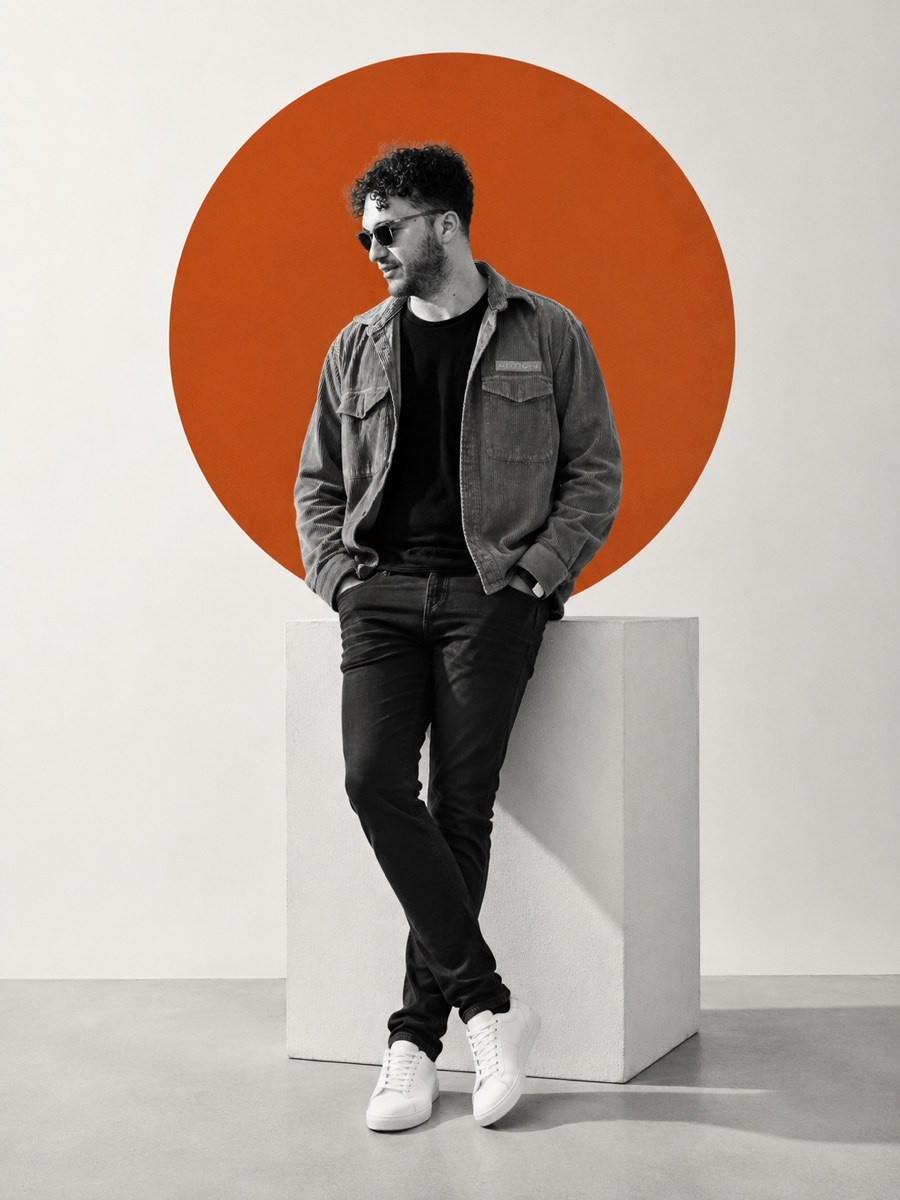
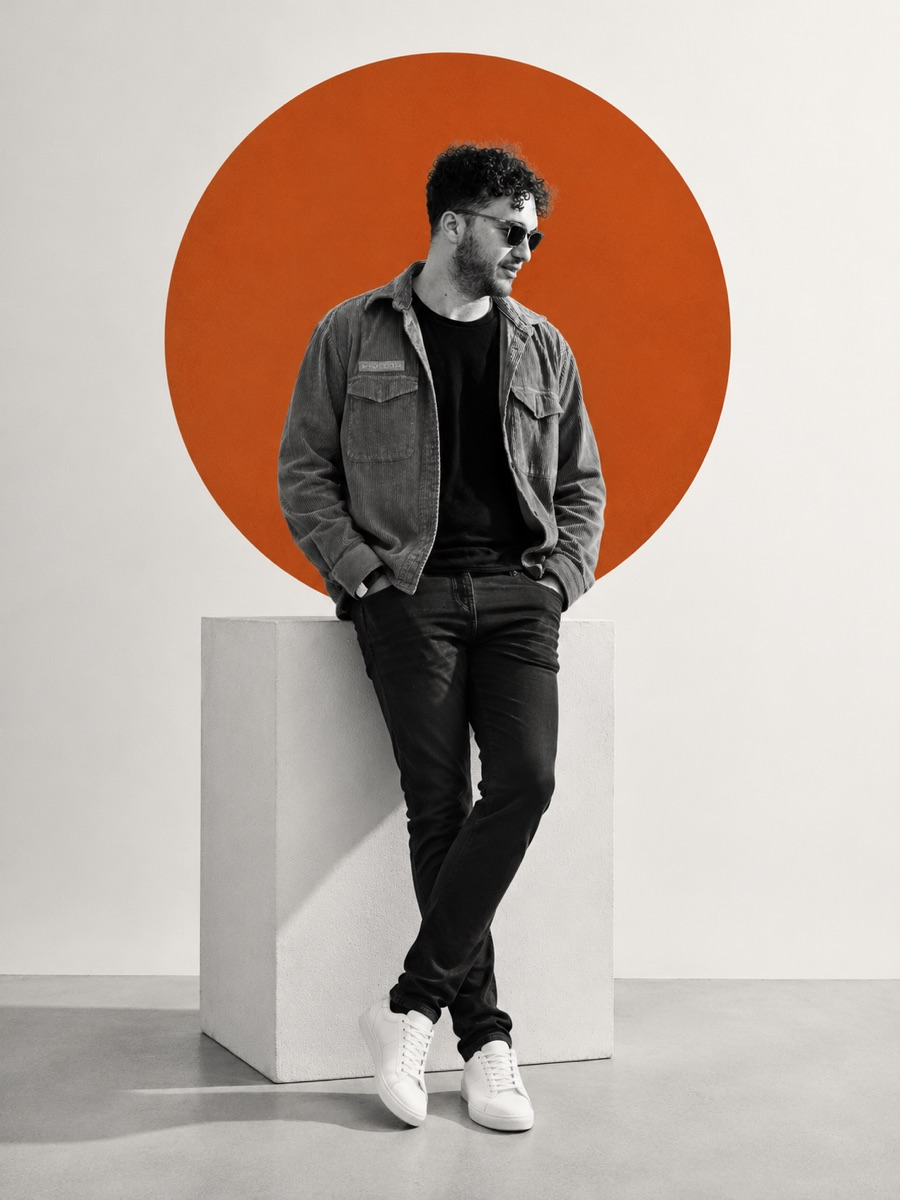
site13_jul03_v1: mirror the portrait, retire the chip, caption on the photo
- Mirror the founder photo horizontally (regenerated from source), Kazim
  now faces right with the plinth on the left
- Remove the glass "Kazim K." card and the orange scrawl underline
- New caption set directly on the photo's bottom-right: serif name over
  stacked mono FOUNDER / K13 SOFTWARE STUDIO lines, right-aligned, with
  a soft white halo for legibility over the floor shadow
- Caption keeps a subtle .16 parallax depth against the frame
- Fit the orange circle fully in frame: inner zoom 1.12 -> 1.06 and inner
  parallax depth .28 -> .16, verified no edge gaps at worst-case scroll

diff --git a/index.html b/index.html
@@ -183,13 +183,11 @@ section{position:relative;z-index:2}
   box-shadow:0 36px 80px -44px rgba(20,29,53,.65);will-change:transform;
   clip-path:inset(9% 7% round 18px);transition:clip-path 1.1s var(--ease) .1s}
 .rv.in .p-frame{clip-path:inset(0% 0% round 18px)}
-.p-frame img{width:100%;aspect-ratio:3/4;object-fit:cover;transform:scale(1.12);will-change:transform}
-.p-chip{position:absolute;z-index:2;left:-16px;bottom:34px;padding:13px 20px 11px;border-radius:13px;
-  background:var(--glass);backdrop-filter:blur(14px) saturate(1.3);-webkit-backdrop-filter:blur(14px) saturate(1.3);
-  border:1px solid rgba(255,255,255,.85);box-shadow:0 20px 44px -26px rgba(20,29,53,.55);will-change:transform}
-.p-chip b{display:block;font-family:var(--disp);font-weight:600;font-size:18px;color:var(--ink);letter-spacing:-.01em;line-height:1.2}
-.p-chip span{font-family:var(--mono);font-size:10px;letter-spacing:.14em;text-transform:uppercase;color:var(--blue)}
-.p-chip .scrawl{display:block;width:100%;height:9px;margin-top:6px}
+.p-frame img{width:100%;aspect-ratio:3/4;object-fit:cover;transform:scale(1.06);will-change:transform}
+.p-cap{position:absolute;z-index:2;right:22px;bottom:20px;text-align:right;will-change:transform;
+  text-shadow:0 0 10px rgba(255,255,255,.95),0 0 24px rgba(255,255,255,.8)}
+.p-cap b{display:block;font-family:var(--disp);font-weight:600;font-size:20px;color:var(--ink);letter-spacing:-.01em;line-height:1.25}
+.p-cap span{display:block;font-family:var(--mono);font-size:9.5px;letter-spacing:.16em;text-transform:uppercase;color:var(--blue);line-height:1.7}
 .facts{display:flex;flex-direction:column;margin-top:36px}
 .facts .f{display:flex;justify-content:space-between;gap:14px;padding:14px 0;border-top:1px solid var(--line);font-size:15px}
 .facts .f:first-child{border-top:none}
@@ -534,12 +532,12 @@ footer{border-top:1px solid var(--line);padding:34px 0;position:relative;z-index
       <figure class="portrait rv" id="portrait">
         <div class="p-back" data-depth="-.45" aria-hidden="true"></div>
         <div class="p-frame" data-depth=".08">
-          <img src="assets/kazim.jpg" alt="Kazim K., founder of K13 Software Studio, leaning on a plinth in front of a burnt-orange circle" loading="lazy" decoding="async" data-depth=".28" data-scale="1.12">
+          <img src="assets/kazim.jpg" alt="Kazim K., founder of K13 Software Studio, leaning on a plinth in front of a burnt-orange circle" loading="lazy" decoding="async" data-depth=".16" data-scale="1.06">
         </div>
-        <figcaption class="p-chip" data-depth=".55">
+        <figcaption class="p-cap" data-depth=".16">
           <b>Kazim K.</b>
-          <span>Founder · K13 Software Studio</span>
-          <svg class="scrawl" viewBox="0 0 200 12" preserveAspectRatio="none" aria-hidden="true"><path class="draw" pathLength="400" d="M3 8 C 55 2, 120 11, 197 5" stroke-width="2"/></svg>
+          <span>Founder</span>
+          <span>K13 Software Studio</span>
         </figcaption>
       </figure>
       <div class="rv">
